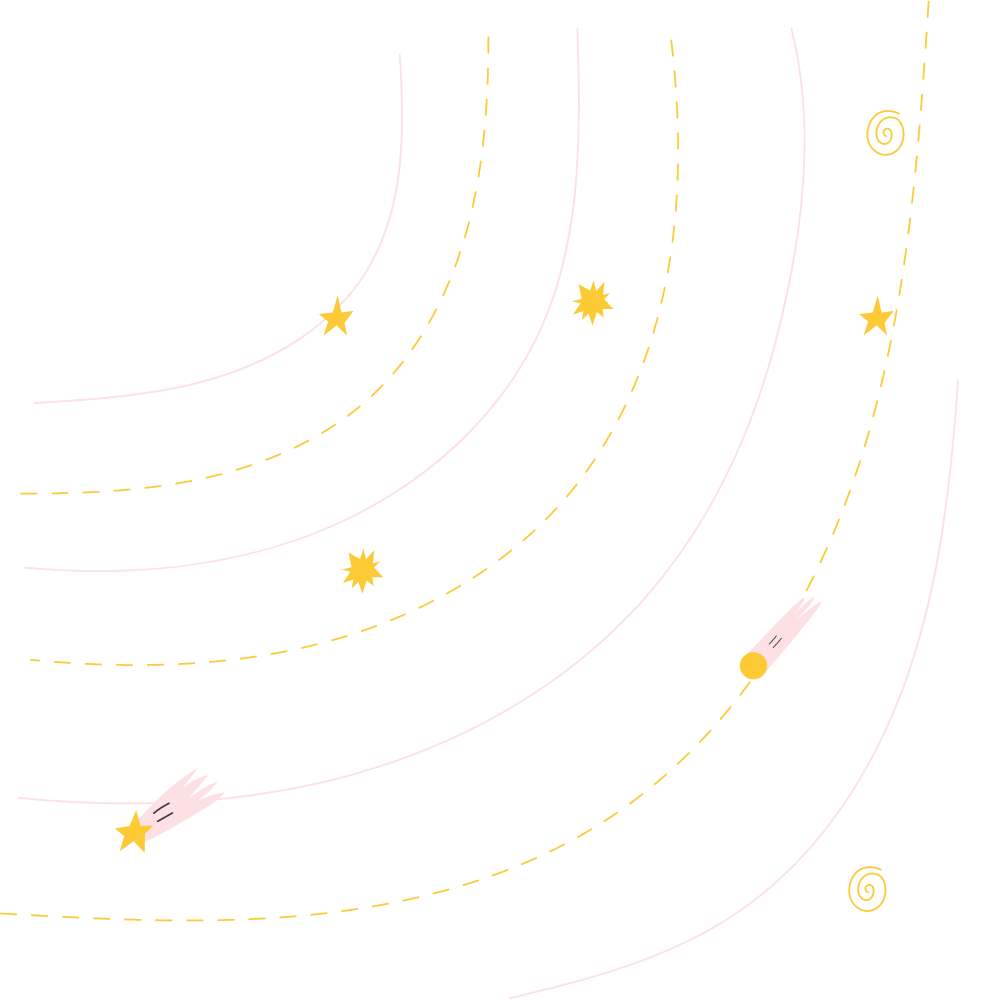
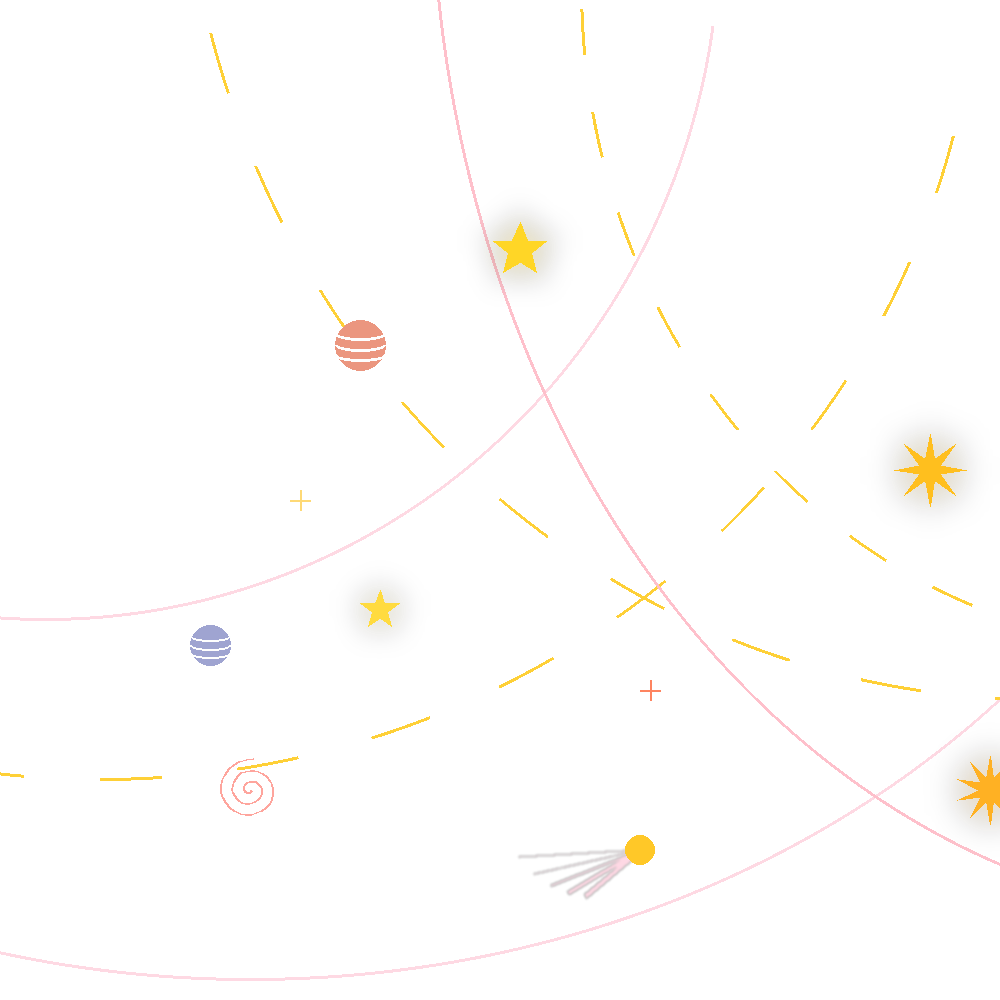
dashboard ui

diff --git a/src/routes/homepage/homePage.css b/src/routes/homepage/homePage.css
@@ -1,0 +1,137 @@
+.home-hero {
+    background: #141420c6;
+}
+
+/* Very subtle background effects */
+.hero-glow {
+    position: absolute;
+    width: 280px;
+    height: 280px;
+    border-radius: 999px;
+    filter: blur(90px);
+    opacity: 0.18;
+    animation: floatGlow 9s ease-in-out infinite;
+    pointer-events: none;
+}
+
+.hero-glow-one {
+    top: 16%;
+    left: 8%;
+    background: rgba(124, 92, 255, 0.65);
+}
+
+.hero-glow-two {
+    right: 12%;
+    bottom: 12%;
+    background: rgba(45, 212, 191, 0.45);
+    animation-delay: -4s;
+}
+
+/* Minimal grid, almost invisible */
+.hero-grid {
+    position: absolute;
+    inset: 0;
+    opacity: 0.08;
+    background-image:
+        linear-gradient(rgba(255, 255, 255, 0.04) 1px, transparent 1px),
+        linear-gradient(90deg, rgba(255, 255, 255, 0.04) 1px, transparent 1px);
+    background-size: 58px 58px;
+    mask-image: radial-gradient(circle at center, black, transparent 75%);
+    animation: gridMove 22s linear infinite;
+    pointer-events: none;
+}
+
+/* Smaller, cleaner robot */
+.bot-card {
+    position: relative;
+    width: min(78%, 420px);
+    display: flex;
+    align-items: center;
+    justify-content: center;
+    animation: botFloat 5.5s ease-in-out infinite;
+}
+
+.bot-card::before {
+    content: "";
+    position: absolute;
+    width: 68%;
+    height: 68%;
+    border-radius: 999px;
+    background: rgba(45, 212, 191, 0.12);
+    filter: blur(55px);
+    z-index: -1;
+}
+
+.bot-image {
+    width: 100%;
+    max-height: 62vh;
+    object-fit: contain;
+    filter: drop-shadow(0 22px 34px rgba(0, 0, 0, 0.28));
+}
+
+.chat {
+    position: absolute;
+    bottom: -30px;
+    right: -50px;
+    display: flex;
+    align-items: center;
+    gap: 10px;
+    padding: 10px 12px;
+    border-radius: 20px;
+    background-color: #404556;
+    font-size: 16px;
+}
+
+@keyframes floatGlow {
+
+    0%,
+    100% {
+        transform: translate3d(0, 0, 0) scale(1);
+    }
+
+    50% {
+        transform: translate3d(20px, -18px, 0) scale(1.04);
+    }
+}
+
+@keyframes gridMove {
+    from {
+        background-position: 0 0;
+    }
+
+    to {
+        background-position: 58px 58px;
+    }
+}
+
+@keyframes botFloat {
+
+    0%,
+    100% {
+        transform: translateY(0);
+    }
+
+    50% {
+        transform: translateY(-9px);
+    }
+}
+
+@media (max-width: 768px) {
+    .home-hero {
+        padding-top: 40px;
+        padding-bottom: 40px;
+    }
+
+    .hero-glow {
+        width: 220px;
+        height: 220px;
+    }
+
+    .bot-card {
+        width: min(72%, 320px);
+    }
+
+    .bot-image {
+        max-height: 38vh;
+    }
+}

diff --git a/src/routes/homepage/homePage.jsx b/src/routes/homepage/homePage.jsx
@@ -1,12 +1,116 @@
-import React from 'react';
-import { Link } from 'react-router-dom';
+// import React from 'react';
+// import { Link } from 'react-router-dom';
+// import './homePage.css';
+// import GetStartedButton from '../../components/GetStartedBtn';
+
+// const HomePage = () => {
+//     return (
+//         <div className="w-11/12 md:w-10/12 flex items-center gap-28 h-full">
+
+//             {/* left */}
+//             <div className="left flex-1 flex flex-col items-center justify-center gap-4 text-center ">
+//                 {/* <h1 className='text-5xl md:text-8xl bg-linear-to-r from-primary via-secondary to-accent bg-clip-text text-transparent font-extrabold'>FastGPT AI</h1> */}
+//                 <h1 className="relative inline-block text-5xl md:text-8xl font-extrabold leading-none">
+//                     <span className="bg-linear-to-r from-primary via-secondary to-accent bg-clip-text text-transparent">
+//                         FastGPT
+//                     </span>
+
+//                     <span className="absolute -right-10 -top-3 text-3xl md:-right-17 md:-top-3 md:text-5xl bg-linear-to-r from-secondary to-accent bg-clip-text text-transparent">
+//                         AI
+//                     </span>
+//                 </h1>
+//                 <h2>Fasten your way of productivity with FastGPT</h2>
+//                 <h3 className='font-light mb-3 w-full md:w-9/12'>Generate smarter answers, organize ideas, and complete tasks faster with your personal AI-powered assistant.</h3>
+//                 <Link to="" >
+//                     <GetStartedButton />
+//                 </Link>
+//             </div>
+
+//             {/* right */}
+//             <div className="right flex items-center justify-center h-full">
+
+//                     <img src="/bot.png" alt="robot" className='' />
+//                 </div>
+//             </div>
+//     );
+// };
+
+// export default HomePage;
+
+import React from "react";
+import { Link } from "react-router-dom";
+import "./homePage.css";
+import GetStartedButton from "../../components/GetStartedBtn";
+import { TypeAnimation } from "react-type-animation";
 
 const HomePage = () => {
     return (
-        <div>
-            Home
-            <Link to="/dashboard">Dashboard</Link>
-        </div>
+        <section className="home-hero relative min-h-[calc(100vh-80px)] w-full overflow-hidden flex items-center justify-center px-5">
+            {/* Background effects */}
+            <div className="hero-glow hero-glow-one" />
+            <div className="hero-glow hero-glow-two" />
+            <div className="hero-grid" />
+
+            <div className="relative z-10 w-full max-w-7xl grid grid-cols-1 md:grid-cols-2 items-center gap-10 md:gap-0">
+                {/* Left */}
+                <div className="flex mx-auto flex-col items-center md:items-start justify-center text-center md:text-left gap-5 px-2 md:px-8">
+                    <div className="space-y-4">
+                        <h1 className="relative inline-block text-6xl md:text-9xl font-extrabold  ">
+                            <span className="bg-linear-to-r from-primary via-secondary to-accent bg-clip-text text-transparent">
+                                FastGPT
+                            </span>
+
+                            <span className="absolute -right-10 -top-2 md:-right-16 md:-top-3 text-3xl md:text-5xl bg-linear-to-r from-secondary to-accent bg-clip-text text-transparent">
+                                AI
+                            </span>
+                        </h1>
+
+                        <h2 className="text-lg md:text-2xl font-semibold text-white">
+                            Fasten your way of productivity with FastGPT
+                        </h2>
+
+                        <p className="max-w-md text-sm md:text-base leading-7 text-white/70 font-light">
+                            Generate smarter answers, organize ideas, and complete tasks faster
+                            with your personal AI-powered assistant.
+                        </p>
+                    </div>
+
+                    <Link to="" className="mt-2">
+                        <GetStartedButton />
+                    </Link>
+                </div>
+
+                {/* Right */}
+                <div className="flex items-center justify-center px-2 md:px-8">
+                    <div className="bot-card">
+                        <img src="/bot.png" alt="FastGPT AI robot assistant" className="bot-image" />
+                        <div className="chat ">
+                            <img src="/chat.png" alt="FastGPT AI robot assistant" className="w-5 mt-1" />
+                            <TypeAnimation
+                                sequence={[
+                                    "Your AI assistant for faster work.",
+                                    1000,
+                                    "Turn ideas into content instantly.",
+                                    1000,
+                                    "Chat smarter. Create faster.",
+                                    1000,
+                                    "Write, summarize, and brainstorm with AI.",
+                                    1000,
+                                    "FastGPT helps you get more done.",
+                                    1000,
+                                ]}
+                                wrapper="span"
+                                speed={70}
+                                repeat={Infinity}
+                                cursor={true}
+                                // omitDeletionAnimation={true}
+
+                            />
+                        </div>
+                    </div>
+                </div>
+            </div>
+        </section>
     );
 };
 

diff --git a/src/components/GetStartedBtn.jsx b/src/components/GetStartedBtn.jsx
@@ -1,0 +1,17 @@
+import { FaArrowRight, FaRocket } from "react-icons/fa6";
+
+const GetStartedButton = () => {
+    return (
+        <button className="group relative inline-flex items-center justify-center gap-2 sm:gap-3 overflow-hidden rounded-full bg-primary px-5 py-2.5 text-sm font-semibold text-primary-content shadow-lg transition-all duration-300 hover:scale-105 hover:shadow-2xl active:scale-95 sm:px-7 sm:py-3 sm:text-base cursor-pointer">
+            <span className="absolute inset-0 -translate-x-full bg-white/20 transition-transform duration-500 group-hover:translate-x-0"></span>
+
+            <FaRocket className="relative z-10 text-sm transition-transform duration-300 group-hover:-translate-y-1 group-hover:rotate-12 sm:text-md" />
+
+            <span className="relative z-10 whitespace-nowrap">Get Started</span>
+
+            <FaArrowRight className="relative z-10 text-base transition-transform duration-300 group-hover:translate-x-1 group-hover:-rotate-45 sm:text-lg" />
+        </button>
+    );
+};
+
+export default GetStartedButton;

diff --git a/src/index.css b/src/index.css
@@ -4,7 +4,7 @@
 };
 
 body {
-    background-color: #140e0fc6;
+    background-color: #141420c6;
     color: #ececec;
     font-family: system-ui, -apple-system, BlinkMacSystemFont, 'Segoe UI', Roboto, Oxygen, Ubuntu, Cantarell, 'Open Sans', 'Helvetica Neue', sans-serif;
 }